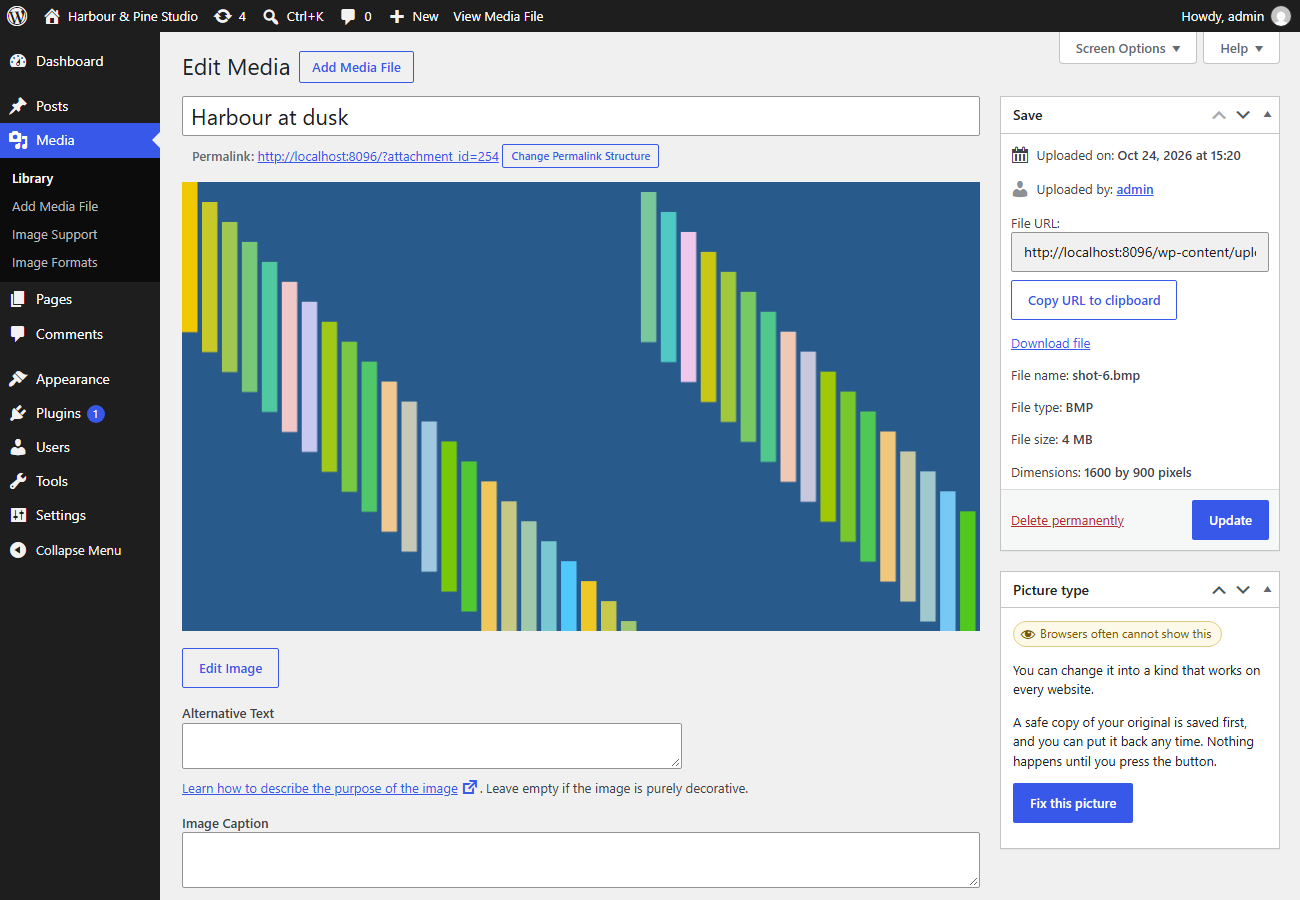
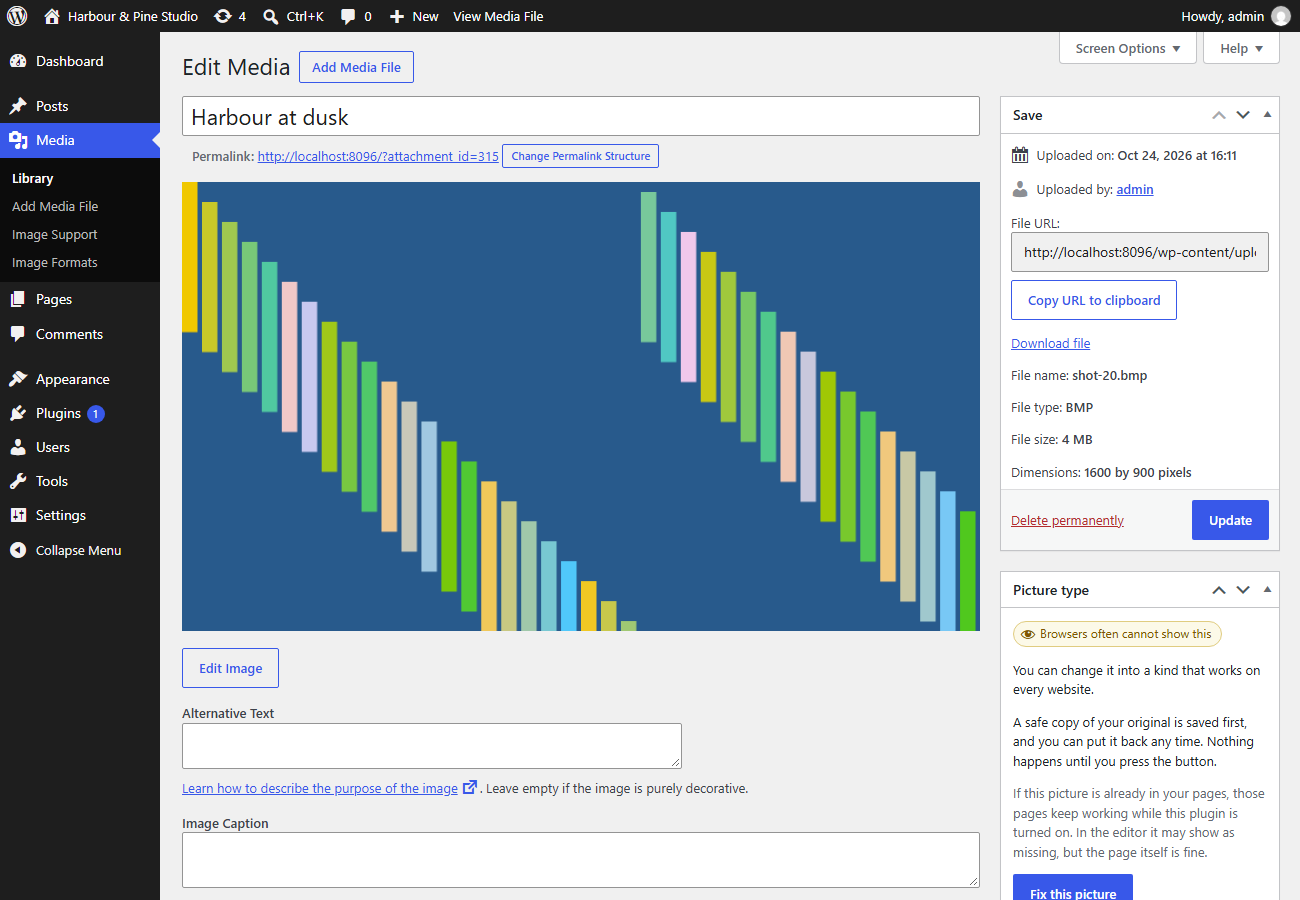
Fix round-3 review findings: restore never over another picture, no swap over live files, APNG, pending recovery

Changed region(s): [[0.7692, 0.8711, 0.9538, 1.0], [0.8308, 0.4044, 0.8923, 0.4356], [0.9231, 0.1556, 0.9538, 0.1867]]

diff --git a/includes/class-converter.php b/includes/class-converter.php
@@ -108,9 +108,11 @@ class Converter {
 			return new WP_Error( 'timu_formats_read', __( 'This website could not open that picture, so nothing was changed.', 'thisismyurl-image-formats' ), $editor->get_error_message() );
 		}
 
-		$size = $editor->get_size();
+		$size    = $editor->get_size();
+		$rotated = false;
 		if ( in_array( $source_mime, array( 'image/jpeg', 'image/heic', 'image/heif' ), true ) && method_exists( $editor, 'maybe_exif_rotate' ) ) {
 			$editor->maybe_exif_rotate();
+			$rotated = true; // The pixels are upright now, so the new file must not be turned again.
 		}
 		$editor->set_quality( Policy::quality_for( $target_mime, $source_mime ) );
 
@@ -139,6 +141,7 @@ class Converter {
 			'width'  => isset( $saved['width'] ) ? (int) $saved['width'] : (int) $size['width'],
 			'height' => isset( $saved['height'] ) ? (int) $saved['height'] : (int) $size['height'],
 			'size'   => (int) filesize( $out ),
+			'rotated' => $rotated,
 		);
 	}
 
@@ -157,6 +160,10 @@ class Converter {
 		$path          = get_attached_file( $attachment_id );
 		if ( ! $mime || ! $path || ! wp_attachment_is_image( $attachment_id ) ) {
 			return new WP_Error( 'timu_formats_not_image', __( 'That is not a picture in your Media Library.', 'thisismyurl-image-formats' ) );
+		}
+		$real = file_exists( $path ) ? wp_get_image_mime( $path ) : false;
+		if ( $real && $real !== $mime ) {
+			$mime = $real;
 		}
 		if ( get_post_meta( $attachment_id, self::META_ORIGINAL, true ) ) {
 			return array( 'status' => 'skipped', 'reason' => 'already converted', 'from' => $mime, 'to' => $mime, 'saved' => 0 );
@@ -241,6 +248,9 @@ class Converter {
 	 * @return string A reason code, or an empty string when it is safe to go on.
 	 */
 	private static function unsafe_reason( $attachment_id, $path ) {
+		if ( self::is_animated_png( $path ) ) {
+			return 'animated';
+		}
 		// A picture cropped or turned inside WordPress keeps its untouched original as a "backup size". Changing the picture would delete it.
 		$edited = get_post_meta( $attachment_id, '_wp_attachment_backup_sizes', true );
 		if ( ! empty( $edited ) ) {
@@ -273,6 +283,36 @@ class Converter {
 			}
 		}
 		return '';
+	}
+
+	/**
+	 * Why a picture would be left alone, for the box on its screen. An empty string means it can be changed.
+	 *
+	 * @param int $attachment_id Attachment ID.
+	 * @return string Reason code.
+	 */
+	public static function refusal_reason( $attachment_id ) {
+		$path = get_attached_file( (int) $attachment_id );
+		return $path ? self::unsafe_reason( (int) $attachment_id, $path ) : '';
+	}
+
+	/**
+	 * Is this file an animated PNG? Converting it would keep only the first frame.
+	 *
+	 * @param string $path Absolute path.
+	 * @return bool
+	 */
+	public static function is_animated_png( $path ) {
+		if ( ! is_string( $path ) || ! is_file( $path ) || 'image/png' !== wp_get_image_mime( $path ) ) {
+			return false;
+		}
+		$head = file_get_contents( $path, false, null, 0, 65536 ); // phpcs:ignore WordPress.WP.AlternativeFunctions.file_get_contents_file_get_contents
+		if ( false === $head ) {
+			return false;
+		}
+		$actl = strpos( $head, 'acTL' );
+		$idat = strpos( $head, 'IDAT' );
+		return false !== $actl && ( false === $idat || $actl < $idat );
 	}
 
 	/**
@@ -356,10 +396,14 @@ class Converter {
 			'original_image'  => $orig_name,
 			'backup_original' => $orig_stored,
 		);
-		update_post_meta( $attachment_id, self::META_ORIGINAL, array_merge( $record, array( 'state' => 'pending' ) ) );
+		update_post_meta( $attachment_id, self::META_ORIGINAL, array_merge( $record, array( 'state' => 'pending', 'new_file' => wp_basename( $new['path'] ) ) ) );
 
 		// Carry the camera, exposure and date details over: the converted file may not hold them in a form WordPress can read.
-		self::remember( $new['path'], isset( $source_meta['image_meta'] ) && is_array( $source_meta['image_meta'] ) ? $source_meta['image_meta'] : array() );
+		$carry = isset( $source_meta['image_meta'] ) && is_array( $source_meta['image_meta'] ) ? $source_meta['image_meta'] : array();
+		if ( ! empty( $new['rotated'] ) && isset( $carry['orientation'] ) ) {
+			$carry['orientation'] = 1;
+		}
+		self::remember( $new['path'], $carry );
 
 		// Remove the old file and its generated sizes, then point the attachment at the new file.
 		$old_meta = self::meta_for_delete( $attachment_id );
@@ -463,15 +507,54 @@ class Converter {
 
 	/**
 	 * The original file name when it is free, otherwise a unique one. WordPress adds "-1" to names ending in -scaled or -rotated even when
-	 * nothing else has the name, which would break every link to the restored picture.
+	 * nothing else has the name, which would break every link to the restored picture. But a name is only "free" if no other picture's
+	 * files could be written over: WordPress may make a JPEG next to a restored HEIC, so any file in the folder that shares the name, in
+	 * any format, and is not one of this picture's own, makes the name unsafe.
 	 *
-	 * @param string $dir  Folder.
-	 * @param string $base File name.
+	 * @param string   $dir  Folder.
+	 * @param string   $base File name.
+	 * @param string[] $own  Normalised paths of this picture's own current files.
 	 * @return string Absolute path.
 	 */
-	private static function exact_or_unique( $dir, $base ) {
-		$path = trailingslashit( $dir ) . $base;
-		return file_exists( $path ) ? trailingslashit( $dir ) . wp_unique_filename( $dir, $base ) : $path;
+	private static function exact_or_unique( $dir, $base, array $own ) {
+		$path   = trailingslashit( $dir ) . $base;
+		$unique = trailingslashit( $dir ) . wp_unique_filename( $dir, $base );
+		if ( file_exists( $path ) ) {
+			return $unique;
+		}
+		$name  = pathinfo( $base, PATHINFO_FILENAME );
+		$match = '/^' . preg_quote( $name, '/' ) . '(-scaled|-rotated)?(-\d+x\d+)?\.[a-z0-9]+$/i';
+		$files = is_dir( $dir ) ? (array) scandir( $dir ) : array();
+		foreach ( $files as $file ) {
+			if ( 1 === preg_match( $match, $file ) && ! in_array( wp_normalize_path( trailingslashit( $dir ) . $file ), $own, true ) ) {
+				return $unique;
+			}
+		}
+		return $path;
+	}
+
+	/**
+	 * This picture's own files as they are now: the main file, its sizes and the large original.
+	 *
+	 * @param int    $attachment_id Attachment ID.
+	 * @param string $current       Absolute path of the main file.
+	 * @return string[] Normalised paths.
+	 */
+	private static function own_files( $attachment_id, $current ) {
+		$dir  = trailingslashit( dirname( $current ) );
+		$own  = array( wp_normalize_path( $current ) );
+		$meta = wp_get_attachment_metadata( $attachment_id );
+		if ( is_array( $meta ) ) {
+			foreach ( isset( $meta['sizes'] ) && is_array( $meta['sizes'] ) ? $meta['sizes'] : array() as $size ) {
+				if ( ! empty( $size['file'] ) ) {
+					$own[] = wp_normalize_path( $dir . $size['file'] );
+				}
+			}
+			if ( ! empty( $meta['original_image'] ) ) {
+				$own[] = wp_normalize_path( $dir . $meta['original_image'] );
+			}
+		}
+		return $own;
 	}
 
 	/**
@@ -515,7 +598,8 @@ class Converter {
 		$current = get_attached_file( $attachment_id );
 		$dir     = dirname( $current );
 		$base    = wp_basename( $info['file'] );
-		$dest    = self::exact_or_unique( $dir, $base );
+		$own     = self::own_files( $attachment_id, $current );
+		$dest    = self::exact_or_unique( $dir, $base, $own );
 
 		// Put the large original back too, when one was kept.
 		$orig_src  = '';
@@ -525,7 +609,7 @@ class Converter {
 			if ( '' === $orig_src ) {
 				return new WP_Error( 'timu_formats_backup_missing', __( 'The saved copy of the original could not be found.', 'thisismyurl-image-formats' ) );
 			}
-			$orig_dest = self::exact_or_unique( $dir, wp_basename( (string) $info['original_image'] ) );
+			$orig_dest = self::exact_or_unique( $dir, wp_basename( (string) $info['original_image'] ), $own );
 		}
 		$copied = array();
 		foreach ( array( array( $source, $dest ), array( $orig_src, $orig_dest ) ) as $pair ) {
@@ -588,6 +672,9 @@ class Converter {
 	 * @return void
 	 */
 	private static function tidy_backup_folder( $folder ) {
+		if ( ! is_dir( $folder ) ) {
+			return;
+		}
 		$left = array_diff( (array) scandir( $folder ), array( '.', '..', 'index.php' ) );
 		if ( ! $left && 0 === strpos( wp_basename( dirname( $folder ) ), Backup::DIR . '-' ) ) {
 			wp_delete_file( trailingslashit( $folder ) . 'index.php' );

diff --git a/includes/class-plugin.php b/includes/class-plugin.php
@@ -110,6 +110,19 @@ class Plugin {
 		$info = get_post_meta( $post->ID, Converter::META_ORIGINAL, true );
 		echo '<div class="timu-ui timu-ui--bare">';
 
+		if ( is_array( $info ) && isset( $info['state'] ) && 'pending' === $info['state'] ) {
+			echo '<p>' . Ui::pill( 'note', __( 'A change did not finish', 'thisismyurl-image-formats' ) ) . '</p>'; // phpcs:ignore WordPress.Security.EscapeOutput -- Ui::pill escapes.
+			if ( isset( $info['backup'] ) && 0 === strpos( (string) $info['backup'], 'local:' ) ) {
+				echo '<p>' . esc_html__( 'This picture was being changed when something stopped. Your original is saved safely. Put it back, and then you can try again.', 'thisismyurl-image-formats' ) . '</p>';
+				Actions::queue_form( Actions::RESTORE, $post->ID );
+				echo '<p><button type="submit" class="button" form="' . esc_attr( Actions::form_id( Actions::RESTORE, $post->ID ) ) . '">' . esc_html__( 'Put the original back', 'thisismyurl-image-formats' ) . '</button></p>';
+			} else {
+				echo '<p>' . esc_html__( 'This picture was being changed when something stopped, and no copy of the original was kept. Please check that it still shows correctly.', 'thisismyurl-image-formats' ) . '</p>';
+			}
+			echo '</div>';
+			return;
+		}
+
 		if ( is_array( $info ) ) {
 			$saved = (int) get_post_meta( $post->ID, Converter::META_SAVINGS, true );
 			echo '<p>' . Ui::pill( 'good', sprintf( /* translators: 1: old picture type, 2: new picture type */ __( 'Changed from %1$s to %2$s', 'thisismyurl-image-formats' ), strtoupper( str_replace( 'image/', '', (string) $info['mime'] ) ), strtoupper( str_replace( 'image/', '', (string) $info['to'] ) ) ) ) . '</p>'; // phpcs:ignore WordPress.Security.EscapeOutput -- Ui::pill escapes.
@@ -127,10 +140,17 @@ class Plugin {
 				echo '<p>' . esc_html__( 'No copy of the original was kept, so it cannot be put back.', 'thisismyurl-image-formats' ) . '</p>';
 			}
 		} else {
-			$mime   = (string) get_post_mime_type( $post->ID );
+			$file   = get_attached_file( $post->ID );
+			$real   = $file ? wp_get_image_mime( $file ) : false;
+			$mime   = $real ? (string) $real : (string) get_post_mime_type( $post->ID );
 			$target = in_array( $mime, array_keys( Capabilities::source_formats() ), true ) ? Policy::target_for( $mime, 'manual' ) : '';
 			if ( '' === $target ) {
 				echo '<p>' . esc_html__( 'This picture is already a good kind for a website. Nothing needs changing.', 'thisismyurl-image-formats' ) . '</p></div>';
+				return;
+			}
+			$why = Converter::refusal_reason( $post->ID );
+			if ( '' !== $why ) {
+				echo '<p>' . esc_html( Actions::reason( $why ) ) . '</p></div>';
 				return;
 			}
 			$nonweb = in_array( $mime, Policy::NON_WEB, true );

diff --git a/includes/class-upload.php b/includes/class-upload.php
@@ -49,8 +49,10 @@ class Upload {
 		if ( defined( 'REST_REQUEST' ) && REST_REQUEST ) {
 			$route = isset( $GLOBALS['wp']->query_vars['rest_route'] ) ? (string) $GLOBALS['wp']->query_vars['rest_route'] : '';
 			// With in-browser picture processing the browser makes the sizes and sends them separately, so the file is left as it is.
-			// phpcs:ignore WordPress.Security.NonceVerification.Recommended -- only reads a flag; core checks the request.
-			$browser_sizes = isset( $_REQUEST['generate_sub_sizes'] ) && in_array( strtolower( (string) wp_unslash( $_REQUEST['generate_sub_sizes'] ) ), array( 'false', '0' ), true );
+			// phpcs:disable WordPress.Security.NonceVerification.Recommended,WordPress.Security.ValidatedSanitizedInput.InputNotSanitized -- only reads a flag, compared to fixed words; core checks the request.
+			$flag          = isset( $_REQUEST['generate_sub_sizes'] ) ? wp_unslash( $_REQUEST['generate_sub_sizes'] ) : '';
+			// phpcs:enable
+			$browser_sizes = is_string( $flag ) && in_array( strtolower( $flag ), array( 'false', '0' ), true );
 			return ! $browser_sizes && 1 === preg_match( '#^/wp/v2/media/?$#', $route );
 		}
 		global $pagenow;
@@ -74,6 +76,9 @@ class Upload {
 		// The block editor's upload reaches this point before WordPress has loaded its picture functions.
 		require_once ABSPATH . 'wp-admin/includes/image.php';
 		$source = strtolower( $upload['type'] );
+		if ( 'image/png' === $source && Converter::is_animated_png( $upload['file'] ) ) {
+			return $upload; // Converting would keep only the first frame.
+		}
 
 		/**
 		 * Return false to leave this upload exactly as it is.
@@ -101,6 +106,9 @@ class Upload {
 		}
 
 		$image_meta = wp_read_image_metadata( $upload['file'] );
+		if ( ! empty( $new['rotated'] ) && is_array( $image_meta ) && isset( $image_meta['orientation'] ) ) {
+			$image_meta['orientation'] = 1; // The pixels were turned upright, so the new file must not be turned again.
+		}
 		Converter::remember( $new['path'], is_array( $image_meta ) ? $image_meta : array() );
 
 		$mode   = Backup::mode();

diff --git a/includes/class-links.php b/includes/class-links.php
@@ -70,7 +70,45 @@ class Links {
 		if ( ! $map ) {
 			return $content;
 		}
-		return strtr( $content, $map );
+		$use = array();
+		foreach ( $map as $old => $new ) {
+			// An old address that now has a real file behind it belongs to some other picture. Leave it alone.
+			$http_old = 'http' . substr( $old, 5 );
+			$has_s    = false !== strpos( $content, $old );
+			$has_p    = false !== strpos( $content, $http_old );
+			if ( ( $has_s || $has_p ) && self::is_live( $old ) ) {
+				continue;
+			}
+			if ( $has_s ) {
+				$use[ $old ] = $new;
+			}
+			if ( $has_p ) {
+				$use[ $http_old ] = 'http' . substr( $new, 5 );
+			}
+		}
+		return $use ? strtr( $content, $use ) : $content;
+	}
+
+	/**
+	 * Is there a real file at this address in the uploads folder right now?
+	 *
+	 * @param string $url Address.
+	 * @return bool
+	 */
+	private static function is_live( $url ) {
+		static $seen = array();
+		if ( isset( $seen[ $url ] ) ) {
+			return $seen[ $url ];
+		}
+		$uploads = wp_get_upload_dir();
+		$base    = preg_replace( '#^https?:#', '', (string) $uploads['baseurl'] );
+		$rel     = preg_replace( '#^https?:#', '', $url );
+		if ( 0 !== strpos( $rel, $base ) ) {
+			$seen[ $url ] = false;
+			return false;
+		}
+		$seen[ $url ] = is_file( $uploads['basedir'] . substr( $rel, strlen( $base ) ) );
+		return $seen[ $url ];
 	}
 
 	/**
@@ -141,9 +179,8 @@ class Links {
 					if ( $entry['u'] === $target ) {
 						continue;
 					}
-					// Both web address styles, so a post written before the site moved to https still works.
+					// Kept once, as https. The plain http form is worked out when a page is shown, so a post written before the site moved to https still works.
 					$map[ set_url_scheme( $entry['u'], 'https' ) ] = set_url_scheme( $target, 'https' );
-					$map[ set_url_scheme( $entry['u'], 'http' ) ]  = set_url_scheme( $target, 'http' );
 				}
 			}
 			++$page;

diff --git a/includes/class-actions.php b/includes/class-actions.php
@@ -146,7 +146,7 @@ class Actions {
 	 * @param string $reason Reason code from the converter.
 	 * @return string
 	 */
-	private static function reason( $reason ) {
+	public static function reason( $reason ) {
 		$map = array(
 			'already converted'             => __( 'This picture was already changed.', 'thisismyurl-image-formats' ),
 			'format is left alone'          => __( 'This kind of picture is left exactly as it is.', 'thisismyurl-image-formats' ),
@@ -155,6 +155,7 @@ class Actions {
 			'edited in wordpress'           => __( 'This picture was cropped or turned in WordPress. It is left exactly as it is, so your edits stay safe.', 'thisismyurl-image-formats' ),
 			'extra files'                   => __( 'This picture has extra files that belong with it, so it is left exactly as it is.', 'thisismyurl-image-formats' ),
 			'shared file'                   => __( 'Another picture in your Media Library uses the same file, so it is left exactly as it is.', 'thisismyurl-image-formats' ),
+			'animated'                      => __( 'This picture is animated, so it is left exactly as it is. Changing it would keep only the first frame.', 'thisismyurl-image-formats' ),
 			'type not allowed'              => __( 'Your website does not allow that kind of picture, so this one is left exactly as it is.', 'thisismyurl-image-formats' ),
 		);
 		return isset( $map[ $reason ] ) ? $map[ $reason ] : __( 'Your picture was left exactly as it was.', 'thisismyurl-image-formats' );

diff --git a/includes/class-settings.php b/includes/class-settings.php
@@ -236,7 +236,7 @@ class Settings {
 							<span class="timu-ui-label" id="timu-l-nonweb"><?php esc_html_e( 'When I add one', 'thisismyurl-image-formats' ); ?></span>
 							<div role="group" aria-labelledby="timu-l-nonweb">
 								<label><input type="checkbox" name="<?php echo esc_attr( $name ); ?>[convert_nonweb]" value="1" aria-describedby="timu-h-nonweb" <?php checked( 1, (int) $s['convert_nonweb'] ); ?>> <?php esc_html_e( 'Fix it for me (recommended)', 'thisismyurl-image-formats' ); ?></label>
-								<p class="timu-ui-help" id="timu-h-nonweb"><?php esc_html_e( 'This is already turned on. Pictures you added earlier are not touched unless you choose them yourself.', 'thisismyurl-image-formats' ); ?></p>
+								<p class="timu-ui-help" id="timu-h-nonweb"><?php esc_html_e( 'This is turned on to begin with. Pictures you added earlier are not touched unless you choose them yourself.', 'thisismyurl-image-formats' ); ?></p>
 							</div>
 						</div>
 						<details class="timu-ui-more">

diff --git a/thisismyurl-image-formats.php b/thisismyurl-image-formats.php
@@ -2,7 +2,7 @@
 /**
  * Plugin Name:       Thisismyurl Image Formats
  * Plugin URI:        https://plugins.thisismyurl.com/thisismyurl-image-formats/
- * Description:       Changes pictures that websites cannot show, or that take up too much space, into pictures that work well. A safe copy of every original is kept, so you can always put it back.
+ * Description:       Changes pictures that websites cannot show, or that take up too much space, into pictures that work well. By default a safe copy of every original is kept, so you can put it back.
  * Version:           1.6297
  * Requires at least: 6.7
  * Requires PHP:      7.4

diff --git a/CHANGELOG.md b/CHANGELOG.md
@@ -8,7 +8,9 @@ First public release.
 - Keeps a safe copy of every original, and puts it back with one button.
 - Keeps links to a changed picture working, while the plugin is active, by swapping the old address for the new one when a page is shown. Stored content is never edited.
 - Leaves alone pictures that were cropped or turned in WordPress, pictures with extra files, and files shared by two Library entries.
-- Writes the way back before anything is removed, restores the original file name exactly, and verifies copies before deleting.
+- Writes the way back before anything is removed, restores the original file name exactly (never over another picture's files), and verifies copies before deleting.
+- Never swaps an old address that now has a real file behind it, so a newer picture with the same name is not replaced.
+- Leaves animated PNGs alone.
 - Only converts pictures added through the Media Library. Other plugins' uploads and WordPress's own background sideloads are not touched.
 - Optionally makes new JPEG and PNG pictures smaller. Off by default; a picture that would not get smaller is left as it was.
 - Settings on Media > Image Formats. Everything is already chosen.
